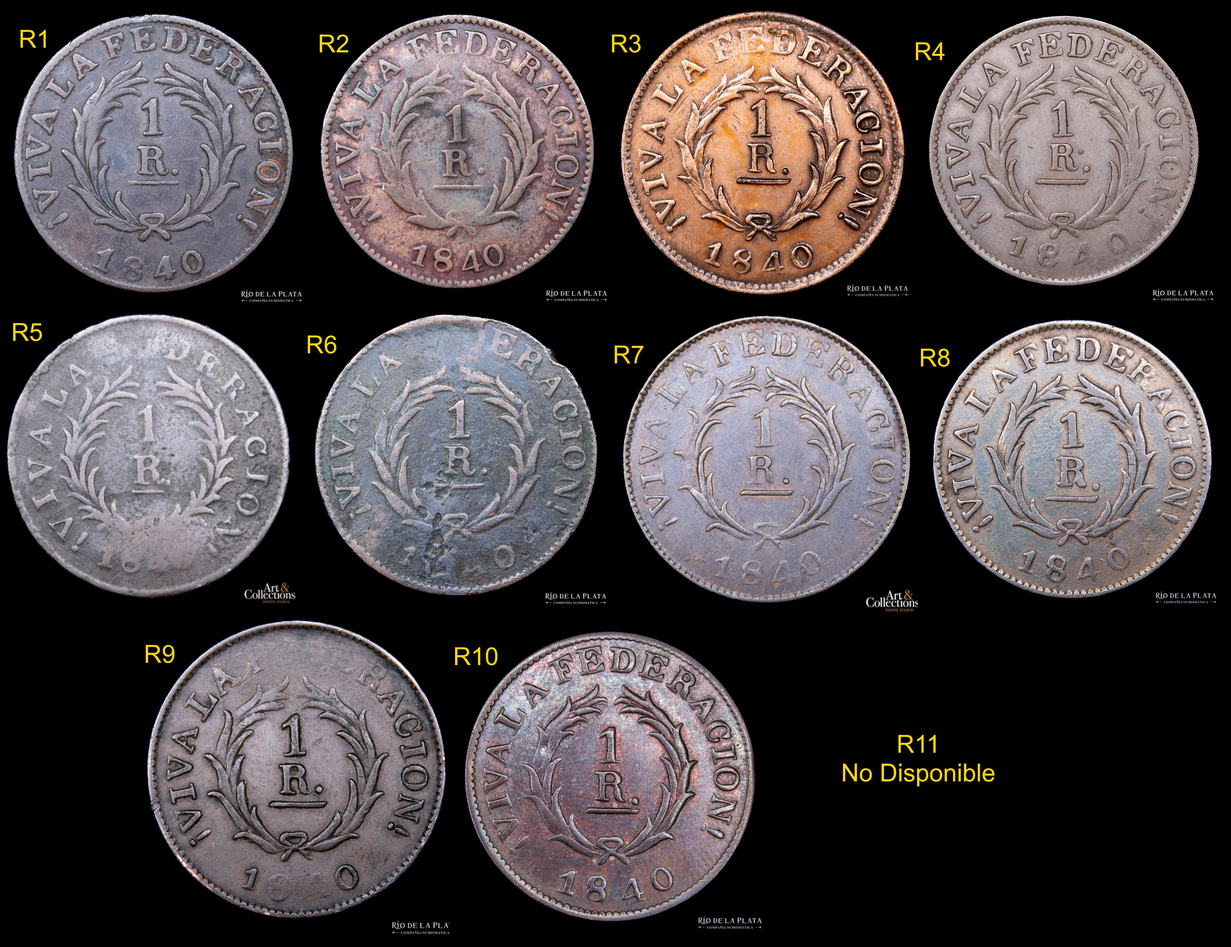
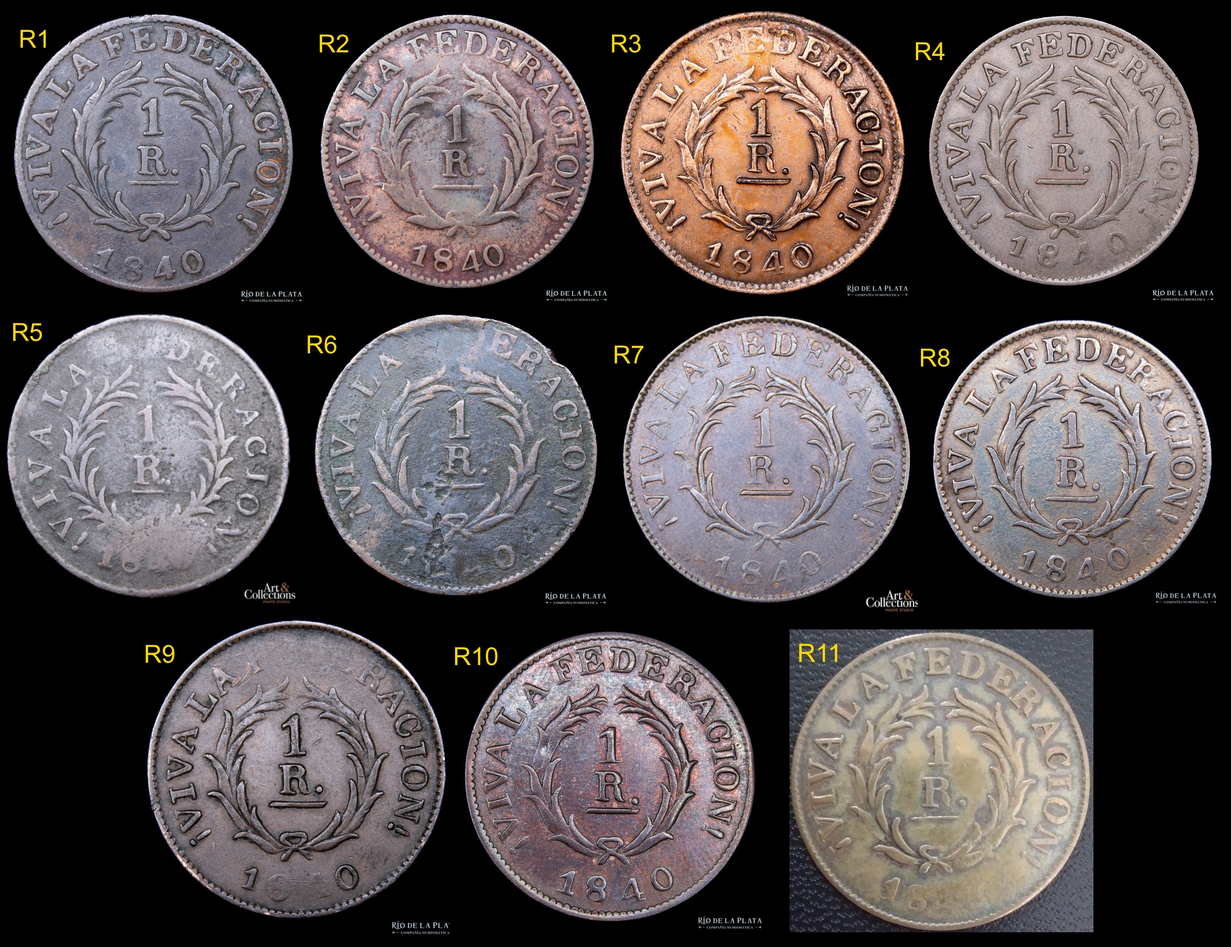
medio real

Changed region(s): [[0.6234, 0.6536, 0.904, 0.9959]]

diff --git a/1Real1840info/JansonNumbs.js b/1Real1840info/JansonNumbs.js
@@ -5,9 +5,9 @@ const janson1Real1840 = [
     { "Variante": "CJ# 16.1.4", "Anverso": "A3", "Reverso": "R3", "P1": 0,  "P2": "_", "P3": 1,  "P4": "_", "P5": "_", "P6": "_", "P7": "_", "P8": "_", "P9": 0  , "P10": "_", "P11": "_" , "P12": 0  , "P13": 0,   "P14": "_", "P15": "_","P16": "_","P17": "_","P18": "_" },
     { "Variante": "CJ# 16.1.5", "Anverso": "A3", "Reverso": "R10", "P1": 0, "P2": "_", "P3": 1,  "P4": "_", "P5": "_", "P6": "_", "P7": "_", "P8": "_", "P9": 0  , "P10": "_", "P11": "_" , "P12": 0  , "P13": 1,   "P14": "_", "P15": "_","P16": "_","P17": "_","P18": "_" },
     { "Variante": "CJ# 16.1.6", "Anverso": "A4", "Reverso": "R1", "P1": 0,  "P2": "_", "P3": 0,  "P4": "_", "P5": "_", "P6": "_", "P7": "_", "P8": "_", "P9": "_", "P10": 1,   "P11": "_" , "P12": "_", "P13": "_", "P14": "_", "P15": "_","P16": "_","P17": 1  ,"P18": "_" },
-    { "Variante": "CJ# 16.1.7", "Anverso": "A4", "Reverso": "R3", "P1": 0,  "P2": "_", "P3": 0,  "P4": "_", "P5": "_", "P6": "_", "P7": "_", "P8": "_", "P9": "_", "P10": 1,   "P11": "_" , "P12": "_", "P13": "_", "P14": "_", "P15": "_","P16": "_","P17": 0  ,"P18": 0 },
-    { "Variante": "CJ# 16.1.8", "Anverso": "A4", "Reverso": "R10", "P1": 0, "P2": "_", "P3": 0,  "P4": "_", "P5": "_", "P6": "_", "P7": "_", "P8": "_", "P9": "_", "P10": 1,   "P11": "_" , "P12": "_", "P13": "_", "P14": "_", "P15": "_","P16": "_","P17": 0  ,"P18": 1 },
-    { "Variante": "CJ# 16.1.9", "Anverso": "A4", "Reverso": "R11", "P1": 0, "P2": "_", "P3": 0,  "P4": "_", "P5": "_", "P6": "_", "P7": "_", "P8": "_", "P9": "_", "P10": 1,   "P11": "_" , "P12": "_", "P13": "_", "P14": "_", "P15": "_","P16": "_","P17": "_","P18": "_" },
+    { "Variante": "CJ# 16.1.7", "Anverso": "A4", "Reverso": "R3", "P1": 0,  "P2": "_", "P3": 0,  "P4": "_", "P5": "_", "P6": "_", "P7": "_", "P8": "_", "P9": "_", "P10": 1,   "P11": "_" , "P12": "_", "P13": "_", "P14": "_", "P15": "_","P16": "_","P17": 0  ,"P18": 0   },
+    { "Variante": "CJ# 16.1.8", "Anverso": "A4", "Reverso": "R10", "P1": 0, "P2": "_", "P3": 0,  "P4": "_", "P5": "_", "P6": "_", "P7": "_", "P8": "_", "P9": "_", "P10": 1,   "P11": "_" , "P12": "_", "P13": "_", "P14": "_", "P15": "_","P16": "_","P17": 0  ,"P18": 1   },
+    { "Variante": "CJ# 16.1.9", "Anverso": "A4", "Reverso": "R11", "P1": 0, "P2": "_", "P3": 0,  "P4": "_", "P5": "_", "P6": "_", "P7": "_", "P8": "_", "P9": "_", "P10": 1,   "P11": "_" , "P12": "_", "P13": "_", "P14": "_", "P15": "_","P16": "_","P17": 0  ,"P18": 1   },
     { "Variante": "CJ# 16.1.10", "Anverso": "A5", "Reverso": "R2", "P1": 1, "P2": 0, "P3": "_",  "P4": "_", "P5": 0  , "P6": "_", "P7": "_", "P8": "_", "P9": "_", "P10": "_", "P11": "_" , "P12": "_", "P13": "_", "P14": 1  , "P15": 1  ,"P16": "_","P17": "_","P18": "_" },
     { "Variante": "CJ# 16.1.11", "Anverso": "A6", "Reverso": "R4", "P1": 0, "P2": "_", "P3": 0,  "P4": "_", "P5": "_", "P6": "_", "P7": "_", "P8": "_", "P9": "_", "P10": 0,   "P11": 1   , "P12": "_", "P13": "_", "P14": "_", "P15": "_","P16": "_","P17": "_","P18": "_" },
     { "Variante": "CJ# 16.1.12", "Anverso": "A6", "Reverso": "R8", "P1": 0, "P2": "_", "P3": 0,  "P4": "_", "P5": "_", "P6": "_", "P7": "_", "P8": "_", "P9": "_", "P10": 0,   "P11": 0   , "P12": "_", "P13": "_", "P14": "_", "P15": "_","P16": "_","P17": "_","P18": "_" },
@@ -67,11 +67,11 @@ const decisionTree1Real1840 = {
                                         aclaracion_no: "La A de Federación desalineada con la hoja en el reverso.",
                                         imagen: "1Real1840info/Pregunta13.jpg",
                                         loe: [
-                                            { name: "CJ# 16.1.7, A4 R3 (por el momento no se puede descartar R11)" }, // No
+                                            { name: "CJ# 16.1.7, A4 R3" }, // No
                                             { name: "CJ# 16.1.8, A4 R10 (por el momento no se puede descartar R11)" }  // Sí
                                         ]
                                     },
-                                    { name: "CJ# 16.1.6, A4 R1 (por el momento no se puede descartar R11)" } // si
+                                    { name: "CJ# 16.1.6, A4 R1" } // si
                                 ]
                             }
                         ]

diff --git a/MedioReal1740.html b/MedioReal1740.html
@@ -1,0 +1,71 @@
+<!DOCTYPE html>
+<html>
+<head>
+    <link href="https://fonts.googleapis.com/css?family=Crete+Round&display=swap" rel="stylesheet">
+    <link rel="stylesheet" href="estilos.css">
+    <meta charset="UTF-8" />
+    <title>1/2 Real 1840</title>
+</head>
+<body>
+    <div style="text-align: center;">
+        <h1>1/2 Real 1840</h1>
+        <div class="cuadros-superiores">
+            <!-- Cuadro 1: Tabla -->
+            <div class="cuadro">
+                <h2 style="margin-top:0;">Variantes posibles de 1/2 Real 1840</h2>
+                <table id="miTabla" border="1" style="margin-bottom: 24px;">
+                    <thead>
+                        <tr>
+                            <td>Variante</td>
+                            <td>Anverso</td>
+                            <td>Reverso</td>
+                        </tr>
+                    </thead>
+                    <tbody>
+                    </tbody>
+                </table>
+            </div>
+            <!-- Cuadro 2: Preguntas -->
+            <div class="cuadro">
+                <h2 style="margin-top:0;">Identifica tu variante</h2>
+                <div id="pregunta-container">
+                    <p id="pregunta-text" style="font-size: 1.2em; font-weight: bold;"></p>
+                    <div class="pregunta-flex">
+                        <img id="pregunta-img" src="" alt="Pregunta" data-zoomable>
+                        <div id="pregunta-botones">
+                            <button onclick="responder('si')">Sí</button>
+                            <div id="aclaracion-si"></div>
+                            <button onclick="responder('no')">No</button>
+                            <div id="aclaracion-no"></div>
+                            <button onclick="responder('dudoso')">No estoy seguro</button>
+                        </div>
+                    </div>
+                </div>
+            </div>
+        </div>
+        <!-- Cuadro 3: Imágenes anversos y reversos -->
+        <div class="cuadro cuadro-inferior">
+            <div style="display: flex; justify-content: center; gap: 40px; flex-wrap: wrap;">
+                <div style="text-align: center;">
+                    <h3 style="margin-bottom: 8px;">Todos los Anversos</h3>
+                    <img src="MedioReal1840info/A1.jpg" alt="Anversos" style="width:520px; max-width:100%; vertical-align: middle; cursor: zoom-in;" data-zoomable>
+                </div>
+                <div style="text-align: center;">
+                    <h3 style="margin-bottom: 8px;">Todos los Reversos</h3>
+                    <img src="MedioReal1840info/CompleteReverses.jpg" alt="Reversos" style="width:520px; max-width:100%; vertical-align: middle; cursor: zoom-in;" data-zoomable>
+                </div>
+            </div>
+        </div>
+    </div>
+    <!-- Modal de zoom para imágenes -->
+    <div id="zoom-modal">
+        <img id="zoom-img" src="" alt="Zoom">
+    </div>
+    <script src="monedas.js"></script>
+    <script src="MedioReal1840info/JansonNumbs.js"></script>
+    <script>
+        // Llama a la función principal pasando los datos de esta moneda
+        iniciarIdentificadorMoneda(decisionTreeMedioReal1840, jansonMedioReal1840);
+    </script>
+</body>
+</html>

diff --git a/MedioReal1840info/JansonNumbs.js b/MedioReal1840info/JansonNumbs.js
@@ -1,0 +1,38 @@
+const jansonMedioReal1840 = [
+    { "Variante": "CJ# 17.1.1", "Anverso": "A1", "Reverso": "R1", "P1": 0, "P2": "_", "P3": 0  , },
+    { "Variante": "CJ# 17.1.2", "Anverso": "A1", "Reverso": "R2", "P1": 0, "P2": "_", "P3": 1  , },
+    { "Variante": "CJ# 17.1.3", "Anverso": "A1", "Reverso": "R3", "P1": 1, "P2": 1  , "P3": "_", },
+    { "Variante": "CJ# 17.1.4", "Anverso": "A1", "Reverso": "R4", "P1": 1, "P2": 0  , "P3": "_", }
+];
+
+const decisionTreeMedioReal1840 = {
+    texto: "¿La V de Viva está alineada con una hoja?",
+    clave: "P1",
+    aclaracion_si: "La segunda hoja de la rama izquierda está alineada con la V de Viva.",
+    aclaracion_no: "La segunda hoja de la rama izquierda está desalineada con la V de Viva.",
+    imagen: "MedioReal1840info/Pregunta1.jpg",
+    loe: [
+        { //no
+            texto: "¿E y R de Federación alineadas con las hojas?",
+            clave: "P3",
+            aclaracion_si: "La segunda E y la R de Federación están alineadas con las hojas de la rama derecha.",
+            aclaracion_no: "La segunda E y la R de Federación están antes de las hojas de la rama derecha.",
+            imagen: "MedioReal1840info/Pregunta3.jpg",
+            loe: [
+                {  name: "CJ# 17.1.1, A1, R1" }, //no
+                {  name: "CJ# 17.1.2, A1, R2" } //si
+            ]
+        },
+        { //si
+            texto: "¿El espacio entre los extremos de las ramas es chico?",
+            clave: "P2",
+            aclaracion_si: "El espacio entre los extremos de las ramas es chico, del tamaño de una letra.",
+            aclaracion_no: "El espacio entre los extremos de las ramas es grande, del tamaño de dos letras.",
+            imagen: "MedioReal1840info/Pregunta2.jpg",
+            loe: [
+                {  name: "CJ# 17.1.4, A1, R4" }, //no
+                {  name: "CJ# 17.1.3, A1, R3" } //si
+            ]
+        }
+    ]
+};

diff --git a/index.html b/index.html
@@ -13,11 +13,13 @@
             font-size: 28px;
         }
     </style>
-    <h1>Variantes de Monedas</h1>
+    <h1>Catalogador Online de Variantes de Monedas Argentinas</h1>
     <ul>
         <li><a href="4centavos1854.html">4 centavos 1854</a></li>
-        <li><a href="1real1840.html">1 Real 1840</a></li>
+
         <li><a href="2reales1844.html">2 Reales 1844</a></li>
+        <li><a href="1real1840.html">1 Real 1840</a></li>
+        <li><a href="MedioReal1740.html">1/2 Real 1840</a></li>
     </ul>
 </body>
 </html>
